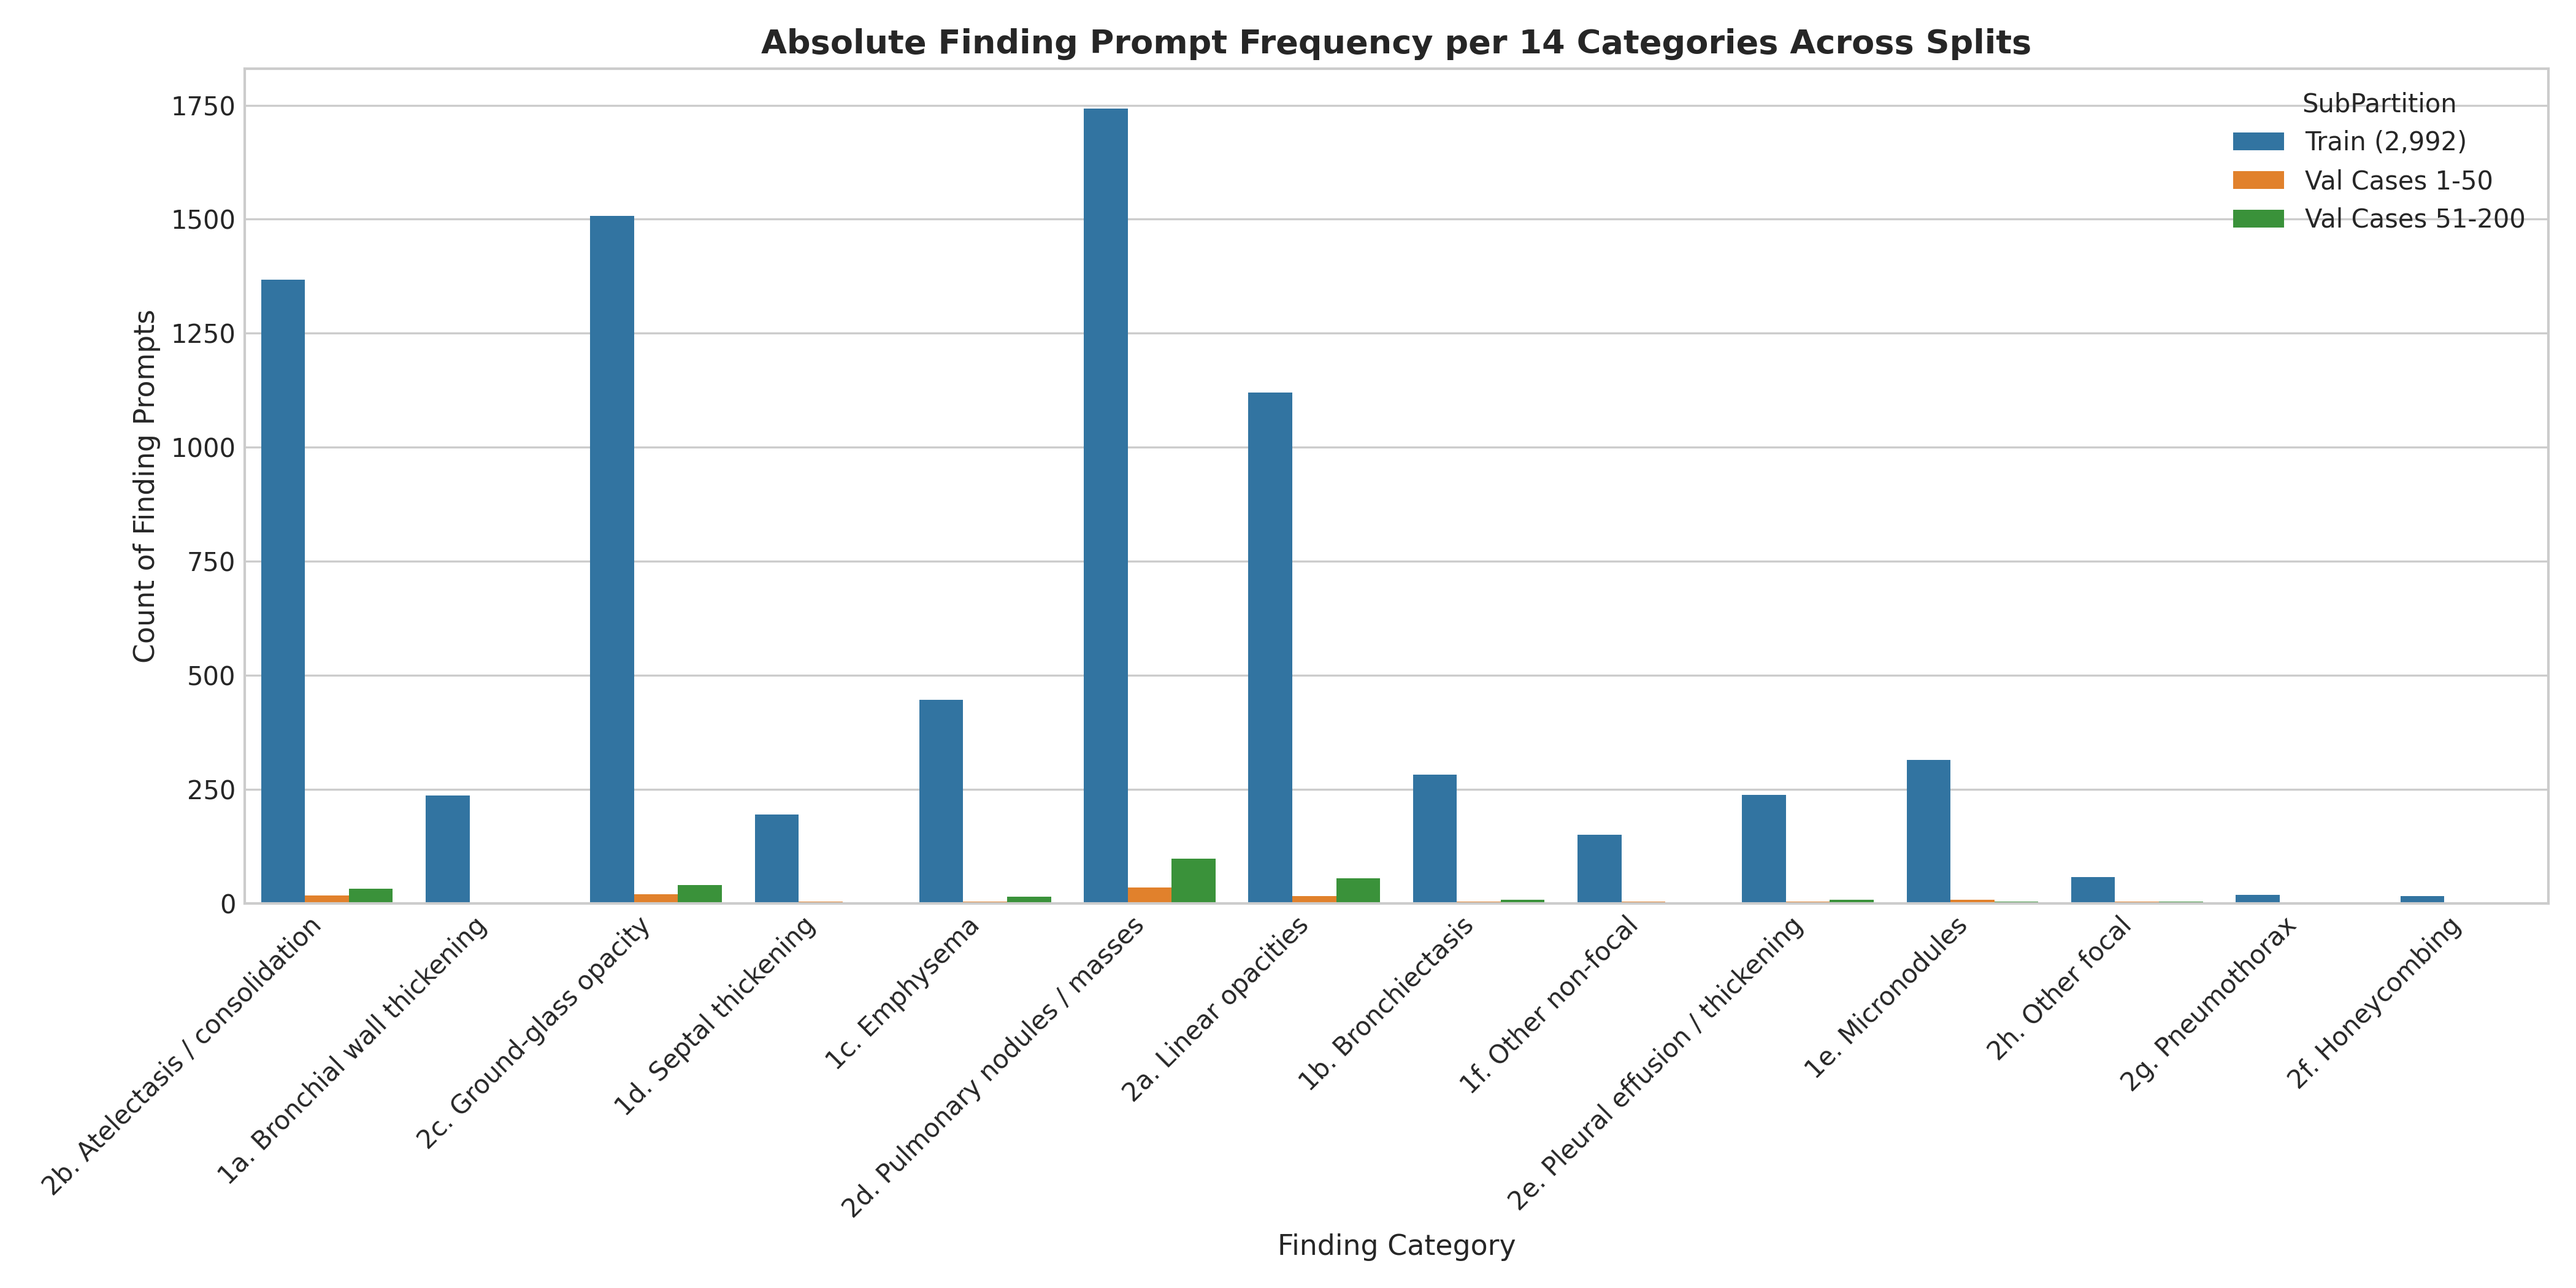
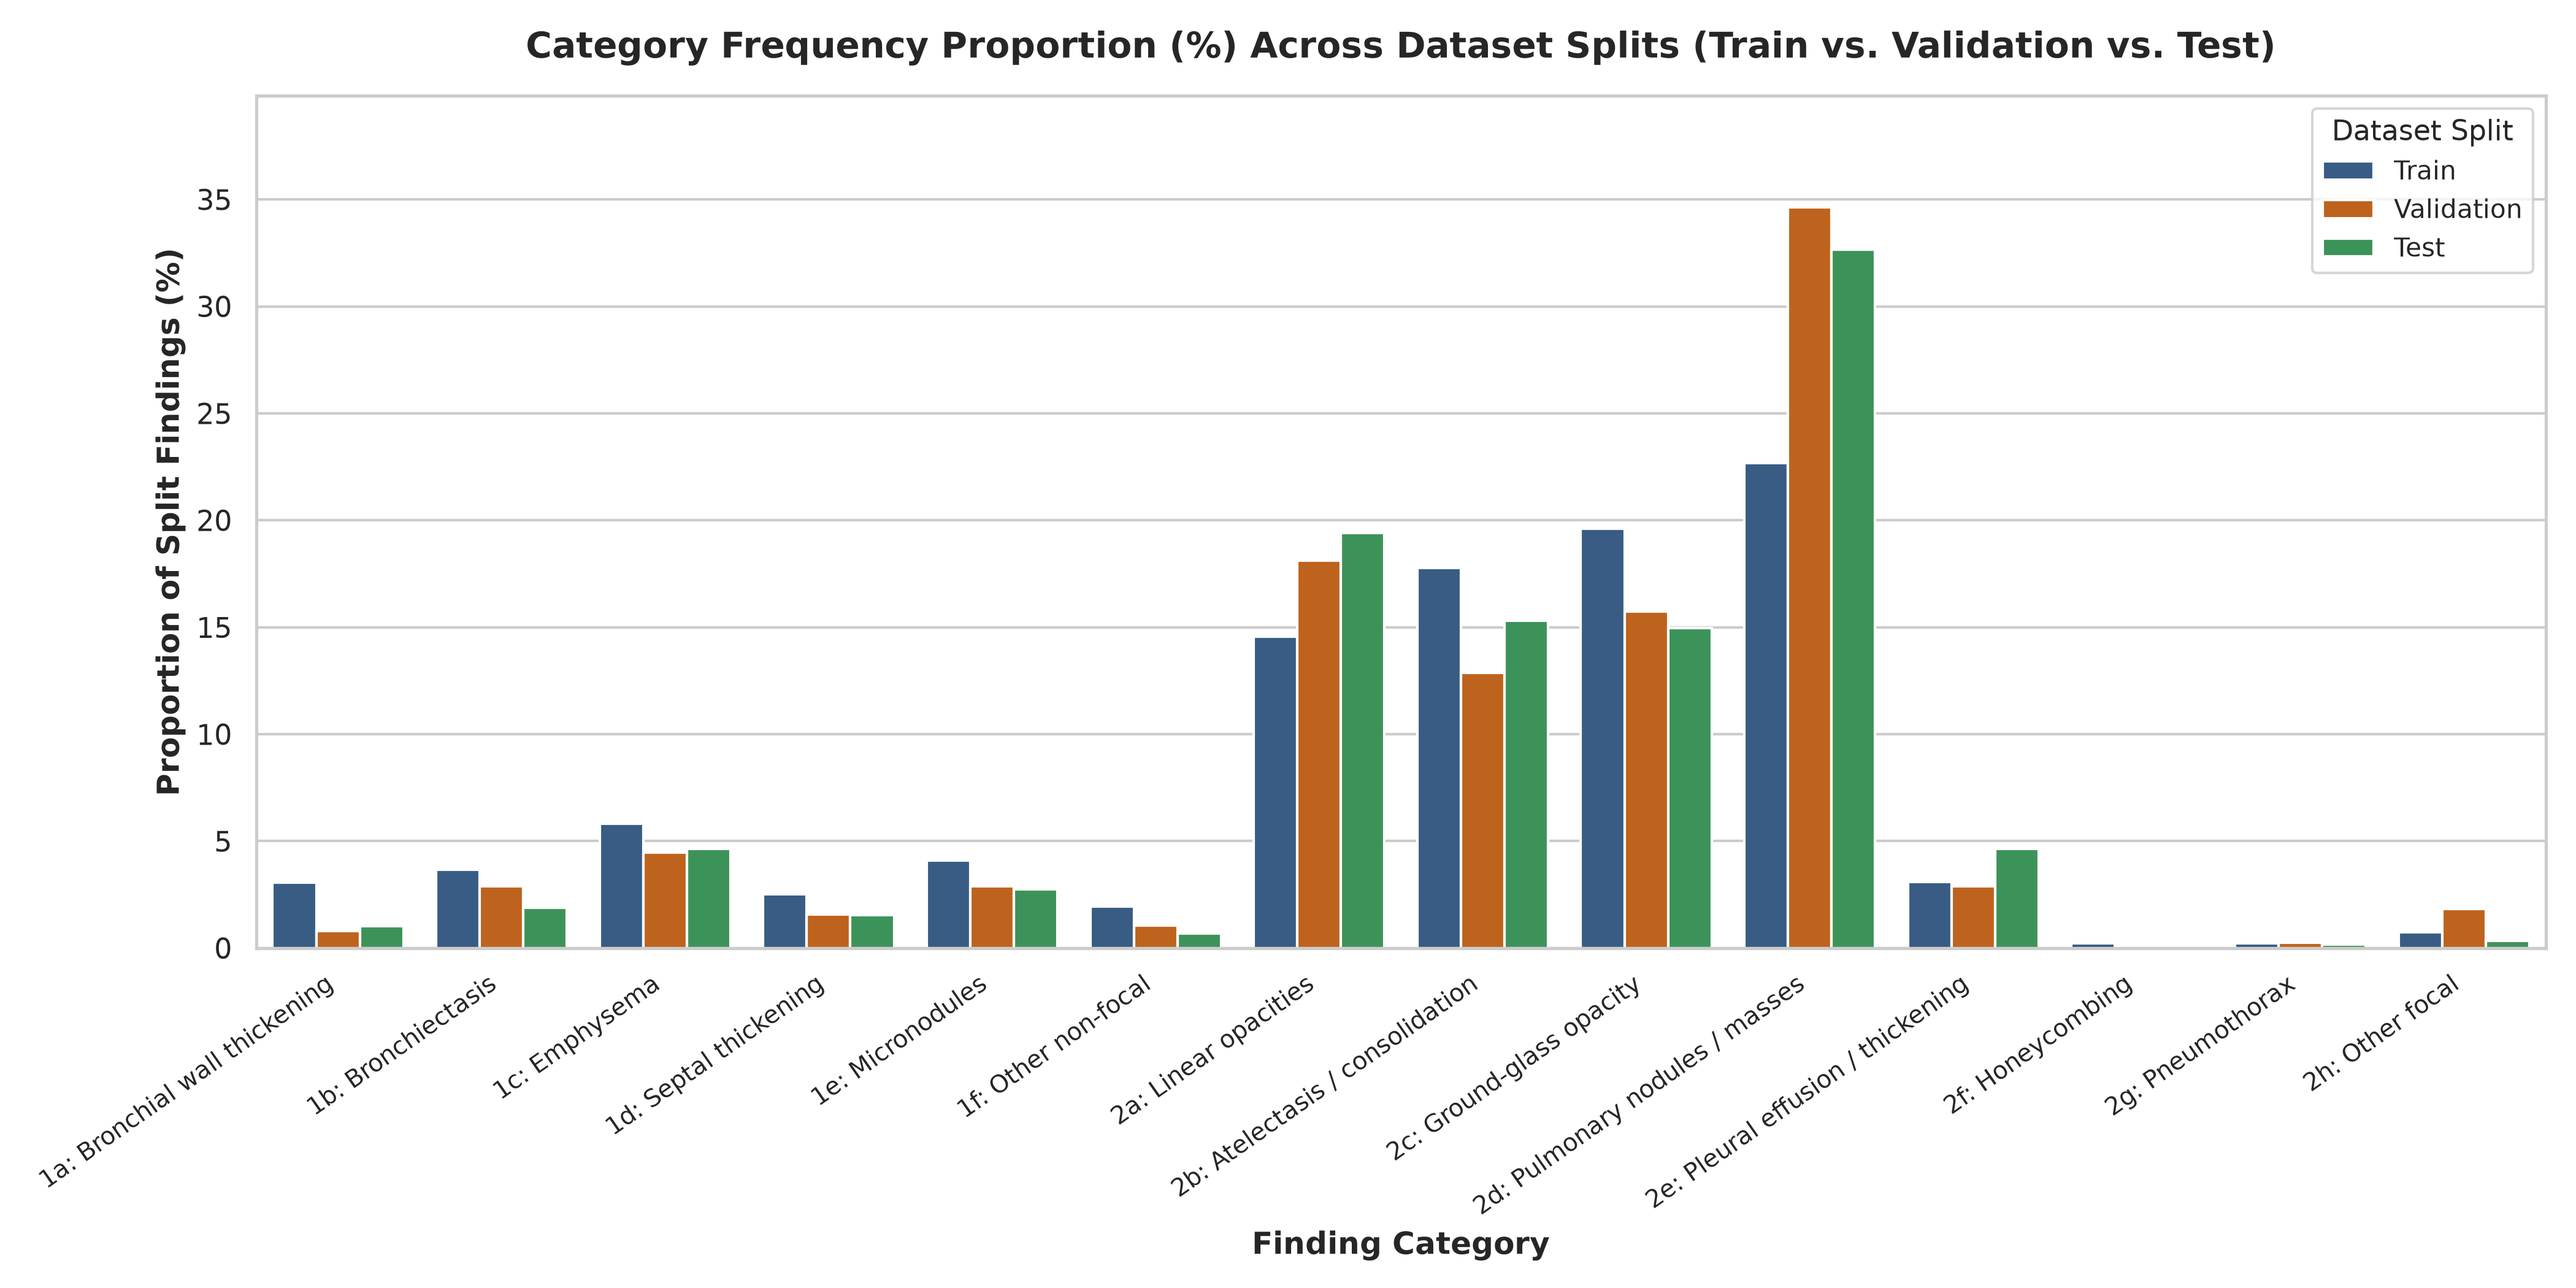
style: rotate Figure 1a category labels 35 degrees to eliminate text overlap

diff --git a/scripts/exp_001_dataset_disparity_leakage.py b/scripts/exp_001_dataset_disparity_leakage.py
@@ -6,7 +6,7 @@ import matplotlib.pyplot as plt
 import seaborn as sns
 import sys
 from pathlib import Path
-from collections import defaultdict
+from collections import defaultdict, Counter
 
 ROOT_DIR = Path(__file__).resolve().parent.parent
 if str(ROOT_DIR) not in sys.path:
@@ -17,7 +17,9 @@ from scripts.config import DATASET_JSON, DATA_DIR, CATEGORY_MAP
 # Load paths relative to environment via centralized scripts.config
 DATA_JSON = str(DATASET_JSON)
 OUTPUT_DIR = str(DATA_DIR / 'phase_1' / 'analysis_experiment_001')
+FIG_DIR = str(ROOT_DIR / 'logs' / 'phase_1_report_overleaf' / 'fig')
 os.makedirs(OUTPUT_DIR, exist_ok=True)
+os.makedirs(FIG_DIR, exist_ok=True)
 
 def parse_patient_id(filename):
     """Extract patient ID from filename convention (e.g. train_1841_a_1.nii.gz -> 1841)."""
@@ -40,6 +42,7 @@ def main():
     # Category-level breakdown accumulators
     cat_split_instances = defaultdict(lambda: {'train': [], 'val': [], 'test': []})
     cat_split_findings = defaultdict(lambda: {'train': 0, 'val': 0, 'test': 0})
+    findings_per_scan_counts = {'train': [], 'val': [], 'test': []}
     
     # Scan-level co-occurrence matrix accumulators
     sorted_cat_codes = sorted(list(CATEGORY_MAP.keys()))
@@ -50,6 +53,8 @@ def main():
     total_scans_analyzed = 0
 
     for split_name, items in dataset.items():
+        if split_name not in ['train', 'val', 'test']:
+            continue
         total_scans = len(items)
         total_findings = 0
         instance_counts = []
@@ -62,7 +67,9 @@ def main():
 
             cats = item.get('categories', {})
             entity_counts = item.get('entity_counts', {})
-            total_findings += len(cats)
+            num_f = len(cats)
+            total_findings += num_f
+            findings_per_scan_counts[split_name].append(num_f)
 
             scan_cats_present = set()
 
@@ -75,7 +82,7 @@ def main():
                 cat_split_findings[cat_code][split_name] += 1
                 scan_cats_present.add(cat_code)
 
-            # Update scan-level co-occurrence matrix
+            # Update scan-level co-occurrence matrix across all splits
             for cat_a in scan_cats_present:
                 idx_a = cat_to_idx[cat_a]
                 for cat_b in scan_cats_present:
@@ -107,9 +114,11 @@ def main():
         cat_name = CATEGORY_MAP[code]
         tr_inst = cat_split_instances[code]['train']
         vl_inst = cat_split_instances[code]['val']
+        ts_inst = cat_split_instances[code]['test']
         
         tr_mean = float(np.mean(tr_inst)) if tr_inst else 0.0
         vl_mean = float(np.mean(vl_inst)) if vl_inst else 0.0
+        ts_mean = float(np.mean(ts_inst)) if ts_inst else 0.0
         
         disparity_ratio = round(vl_mean / tr_mean, 2) if tr_mean > 0 else 0.0
 
@@ -117,8 +126,10 @@ def main():
             'CategoryName': cat_name,
             'TrainFindingsCount': cat_split_findings[code]['train'],
             'ValFindingsCount': cat_split_findings[code]['val'],
+            'TestFindingsCount': cat_split_findings[code]['test'],
             'TrainMeanInstancesPerFinding': round(tr_mean, 3),
             'ValMeanInstancesPerFinding': round(vl_mean, 3),
+            'TestMeanInstancesPerFinding': round(ts_mean, 3),
             'DisparityRatio_Val_vs_Train': disparity_ratio
         }
 
@@ -154,7 +165,130 @@ def main():
 
     print(f"Successfully generated Exp 001 summary JSON at {out_json}")
 
-    # Generate Co-Occurrence Heatmap Plot
+    # Set publication plot style
+    sns.set_theme(style='whitegrid', palette='muted')
+    plt.rcParams.update({'font.sans-serif': 'DejaVu Sans', 'font.size': 11})
+
+    # --- Plot 1: Category Frequency Proportion (%) Across Splits ---
+    cat_prop_data = []
+    tot_train_f = split_stats['train']['TotalFindings']
+    tot_val_f = split_stats['val']['TotalFindings']
+    tot_test_f = split_stats['test']['TotalFindings']
+
+    for code in sorted_cat_codes:
+        cat_label = f"{code}: {CATEGORY_MAP[code]}"
+        tr_cnt = cat_split_findings[code]['train']
+        vl_cnt = cat_split_findings[code]['val']
+        ts_cnt = cat_split_findings[code]['test']
+
+        cat_prop_data.append({
+            'CategoryCode': code,
+            'CategoryLabel': cat_label,
+            'Split': 'Train',
+            'Proportion': (tr_cnt / tot_train_f * 100) if tot_train_f > 0 else 0.0
+        })
+        cat_prop_data.append({
+            'CategoryCode': code,
+            'CategoryLabel': cat_label,
+            'Split': 'Validation',
+            'Proportion': (vl_cnt / tot_val_f * 100) if tot_val_f > 0 else 0.0
+        })
+        cat_prop_data.append({
+            'CategoryCode': code,
+            'CategoryLabel': cat_label,
+            'Split': 'Test',
+            'Proportion': (ts_cnt / tot_test_f * 100) if tot_test_f > 0 else 0.0
+        })
+
+    df_cat_prop = pd.DataFrame(cat_prop_data)
+
+    plt.figure(figsize=(14, 7))
+    palette = {'Train': '#2b5c8f', 'Validation': '#d95f02', 'Test': '#2ea154'}
+    ax1 = sns.barplot(
+        data=df_cat_prop,
+        x='CategoryCode',
+        y='Proportion',
+        hue='Split',
+        palette=palette
+    )
+
+    plt.title('Category Frequency Proportion (%) Across Dataset Splits (Train vs. Validation vs. Test)', fontsize=14, fontweight='bold', pad=15)
+    plt.xlabel('Finding Category', fontsize=12, fontweight='bold')
+    plt.ylabel('Proportion of Split Findings (%)', fontsize=12, fontweight='bold')
+    plt.ylim(0, max(df_cat_prop['Proportion']) * 1.15)
+    
+    # Custom x-tick labels with category codes and full category names rotated at 35 degrees
+    labels = [f"{code}: {CATEGORY_MAP[code]}" for code in sorted_cat_codes]
+    ax1.set_xticks(range(len(sorted_cat_codes)))
+    ax1.set_xticklabels(labels, rotation=35, ha='right', fontsize=9.5)
+    plt.legend(title='Dataset Split', title_fontsize='11', fontsize='10', loc='upper right')
+    plt.tight_layout()
+
+    fig1_path_1 = os.path.join(OUTPUT_DIR, 'exp001_category_frequency_breakdown.png')
+    fig1_path_2 = os.path.join(FIG_DIR, 'exp001_category_frequency_breakdown.png')
+    plt.savefig(fig1_path_1, dpi=300)
+    plt.savefig(fig1_path_2, dpi=300)
+    plt.close()
+    print(f"Successfully generated Category Frequency Proportion figure at {fig1_path_1} and {fig1_path_2}")
+
+    # --- Plot 2: Findings Count per CT Scan Record Distribution Across Splits ---
+    findings_per_scan_data = []
+    for split_name in ['train', 'val', 'test']:
+        counts = findings_per_scan_counts[split_name]
+        total_scans = len(counts)
+        counter = Counter(counts)
+        label_split = 'Train' if split_name == 'train' else ('Validation' if split_name == 'val' else 'Test')
+        
+        for num_f in range(1, 7):
+            if num_f < 6:
+                scnt = counter[num_f]
+                lbl = str(num_f)
+            else:
+                scnt = sum(v for k, v in counter.items() if k >= 6)
+                lbl = '6+'
+                
+            findings_per_scan_data.append({
+                'FindingsPerScan': lbl,
+                'Split': label_split,
+                'Proportion': (scnt / total_scans * 100) if total_scans > 0 else 0.0
+            })
+
+    df_fps = pd.DataFrame(findings_per_scan_data)
+
+    plt.figure(figsize=(10, 6))
+    ax2 = sns.barplot(
+        data=df_fps,
+        x='FindingsPerScan',
+        y='Proportion',
+        hue='Split',
+        palette=palette
+    )
+
+    plt.title('Distribution of Findings Count per CT Scan Record Across Splits', fontsize=14, fontweight='bold', pad=15)
+    plt.xlabel('Number of Finding Prompts per CT Scan', fontsize=12, fontweight='bold')
+    plt.ylabel('Proportion of CT Scans in Split (%)', fontsize=12, fontweight='bold')
+    plt.ylim(0, max(df_fps['Proportion']) * 1.15)
+
+    # Add bar labels
+    for p in ax2.patches:
+        height = p.get_height()
+        if height > 0:
+            ax2.annotate(f'{height:.1f}%',
+                        (p.get_x() + p.get_width() / 2., height),
+                        ha='center', va='bottom', fontsize=8, xytext=(0, 3),
+                        textcoords='offset points')
+
+    plt.legend(title='Dataset Split', title_fontsize='11', fontsize='10', loc='upper right')
+    plt.tight_layout()
+
+    fig2_path_1 = os.path.join(OUTPUT_DIR, 'exp001_findings_per_scan.png')
+    fig2_path_2 = os.path.join(FIG_DIR, 'exp001_findings_per_scan.png')
+    plt.savefig(fig2_path_1, dpi=300)
+    plt.savefig(fig2_path_2, dpi=300)
+    plt.close()
+    print(f"Successfully generated Findings per Scan Distribution figure at {fig2_path_1} and {fig2_path_2}")
+
+    # --- Plot 3: Co-Occurrence Heatmap ---
     try:
         labels = [f"{code}: {CATEGORY_MAP[code]}" for code in sorted_cat_codes]
         plt.figure(figsize=(14, 12))
@@ -165,10 +299,12 @@ def main():
         plt.yticks(rotation=0, fontsize=9)
         plt.tight_layout()
         
-        heatmap_path = os.path.join(OUTPUT_DIR, 'exp001_cooccurrence_heatmap.png')
-        plt.savefig(heatmap_path, dpi=300)
+        heatmap_path_1 = os.path.join(OUTPUT_DIR, 'exp001_cooccurrence_heatmap.png')
+        heatmap_path_2 = os.path.join(FIG_DIR, 'exp001_cooccurrence_heatmap.png')
+        plt.savefig(heatmap_path_1, dpi=300)
+        plt.savefig(heatmap_path_2, dpi=300)
         plt.close()
-        print(f"Successfully generated co-occurrence heatmap figure at {heatmap_path}")
+        print(f"Successfully generated co-occurrence heatmap figure at {heatmap_path_1} and {heatmap_path_2}")
     except Exception as e:
         print(f"Visualization note: heatmap generation skipped or encountered issue: {e}")
 

diff --git a/logs/phase_1_report_overleaf/main.tex b/logs/phase_1_report_overleaf/main.tex
@@ -177,15 +177,15 @@ Under the Training set's \textit{Entity Protocol}, annotators segment representa
 \begin{subfigure}[b]{0.48\textwidth}
     \centering
     \includegraphics[width=\textwidth]{fig/exp001_category_frequency_breakdown.png}
-    \caption{Category frequency distribution across splits.}
+    \caption{Category proportion (\%) across Train, Val, and Test.}
 \end{subfigure}
 \hfill
 \begin{subfigure}[b]{0.48\textwidth}
     \centering
     \includegraphics[width=\textwidth]{fig/exp001_findings_per_scan.png}
-    \caption{Distribution of findings per CT scan record.}
+    \caption{Findings per scan proportion (\%) across splits.}
 \end{subfigure}
-\caption{Experiment 001 dataset composition and category frequency profiling.}
+\caption{Experiment 001 dataset category proportion breakdown and findings per scan distribution across Train, Validation, and Test splits.}
 \label{fig:exp001_composition}
 \end{figure}
 

diff --git a/.agents/HANDSHAKE.md b/.agents/HANDSHAKE.md
@@ -86,7 +86,7 @@ Any incoming AI assistant starting a new session to revise the report MUST follo
   * **Layout & Tables**: Replaced rigid `adjustbox` table scaling with `tabularx` and uniform font size across all 5 tables; applied explicit `>{\raggedright\arraybackslash}X` auto-wrapping columns to resolve column overlap in Table 5 (`Category Name` vs `Blobs`); tightened padding (`\tabcolsep{2.2pt}`) to guarantee zero page margin overflow; replaced `[H]` float specifiers with flexible `[htbp]`; removed hardcoded `\bigskip` overrides.
   * **Code Listing**: Added explicit `json` language definition (`\lstdefinelanguage{json}{...}`) to preamble.
   * **Authentic Bibliography & Technical Clarity**: Updated bibliography in `main.tex` with exact user-provided BibTeX entries for **ReXGroundingCT** (*Baharoon et al., NEJM AI 2026, 3(7):AIdbp2501220*), **VoxTell** (*Rokuss et al., IEEE/CVF CVPR 2026, pp. 37538--37557*), **CT-RATE / Generalist Models** (*Hamamci et al., Nature Biomedical Engineering 2026*), and **SPOCO** (*Wolny et al., arXiv:2103.14572*); explicitly defined MPR and PU acronyms; added zero-count validation methodology note for Honeycombing (`2f`); expanded Table 1 footnote clarifying test split placeholder instance metadata ($1.000 \pm 0.000$).
-
+  * **Experiment 001 Figure Refinement**: Unified validation cases into a single "Validation" split, integrated the Test set distribution (300 scans, 582 findings), converted category frequency Y-axis from raw count to split proportion (%), and updated findings per scan distribution figure to include the Test split.
 
 
 

diff --git a/logs/exp_001_dataset_disparity_leakage.md b/logs/exp_001_dataset_disparity_leakage.md
@@ -44,9 +44,9 @@ A 3-tier ID decomposition was performed across all 3,192 scans to identify longi
 
 ---
 
-## 4. Artifact & Script References
-
 * **Summary Output JSON**: [../data/phase_1/analysis_experiment_001/exp001_disparity_leakage_summary.json](file://../data/phase_1/analysis_experiment_001/exp001_disparity_leakage_summary.json)
+* **Category Frequency Proportion Figure**: [../data/phase_1/analysis_experiment_001/exp001_category_frequency_breakdown.png](file://../data/phase_1/analysis_experiment_001/exp001_category_frequency_breakdown.png)
+* **Findings per Scan Distribution Figure**: [../data/phase_1/analysis_experiment_001/exp001_findings_per_scan.png](file://../data/phase_1/analysis_experiment_001/exp001_findings_per_scan.png)
 * **Heatmap Visualization Figure**: [../data/phase_1/analysis_experiment_001/exp001_cooccurrence_heatmap.png](file://../data/phase_1/analysis_experiment_001/exp001_cooccurrence_heatmap.png)
 * **Execution Script**: [scripts/exp_001_dataset_disparity_leakage.py](file://scripts/exp_001_dataset_disparity_leakage.py)
 
